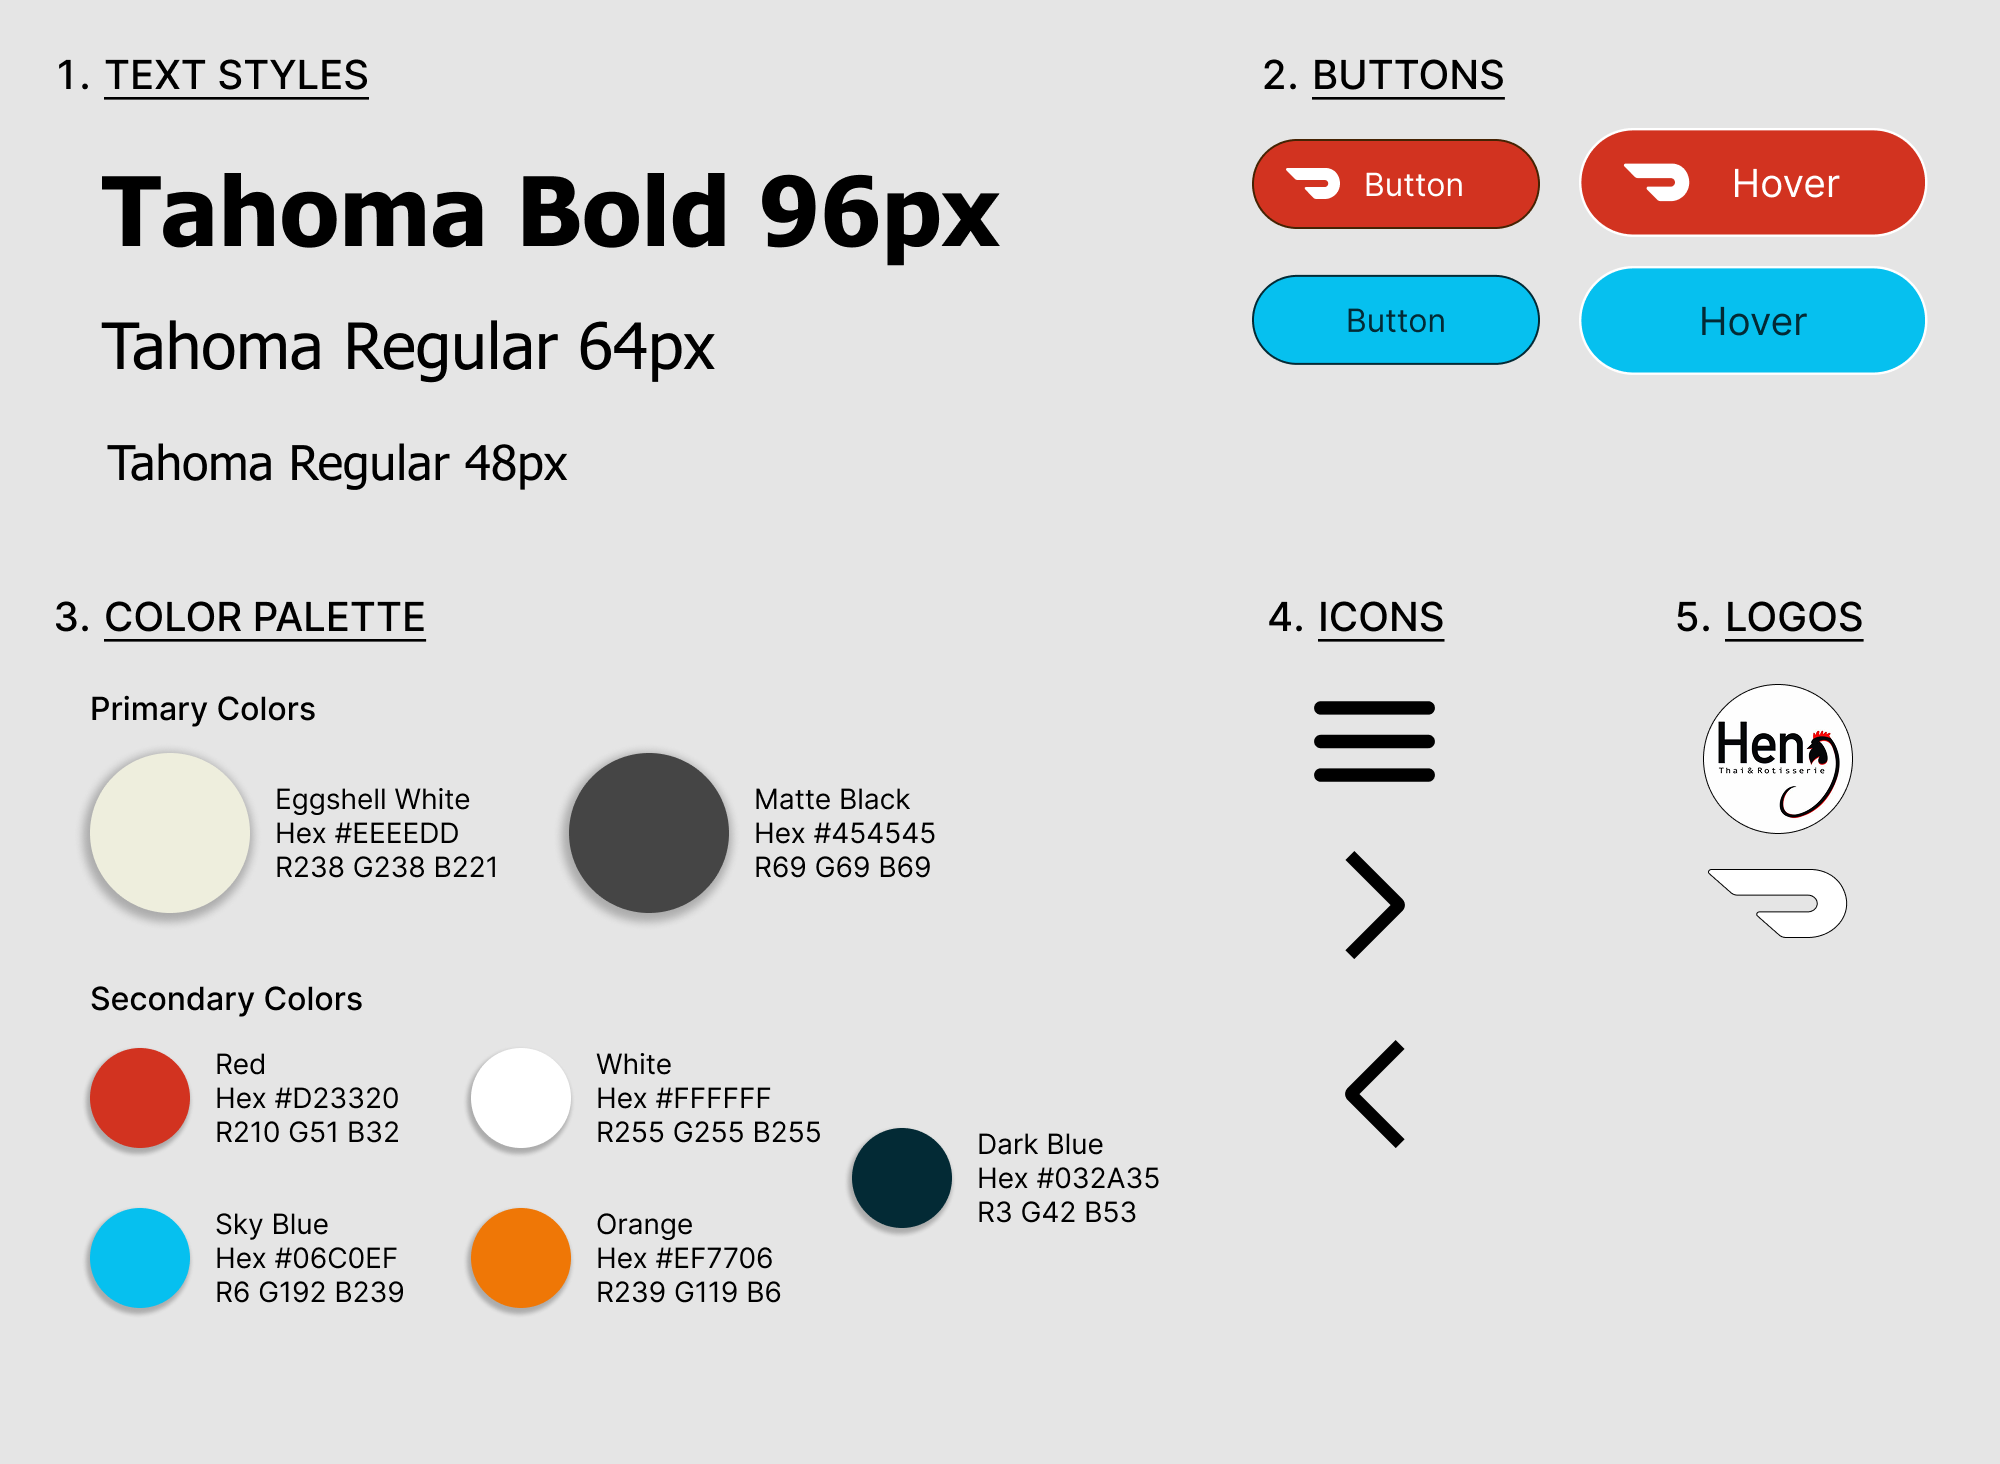
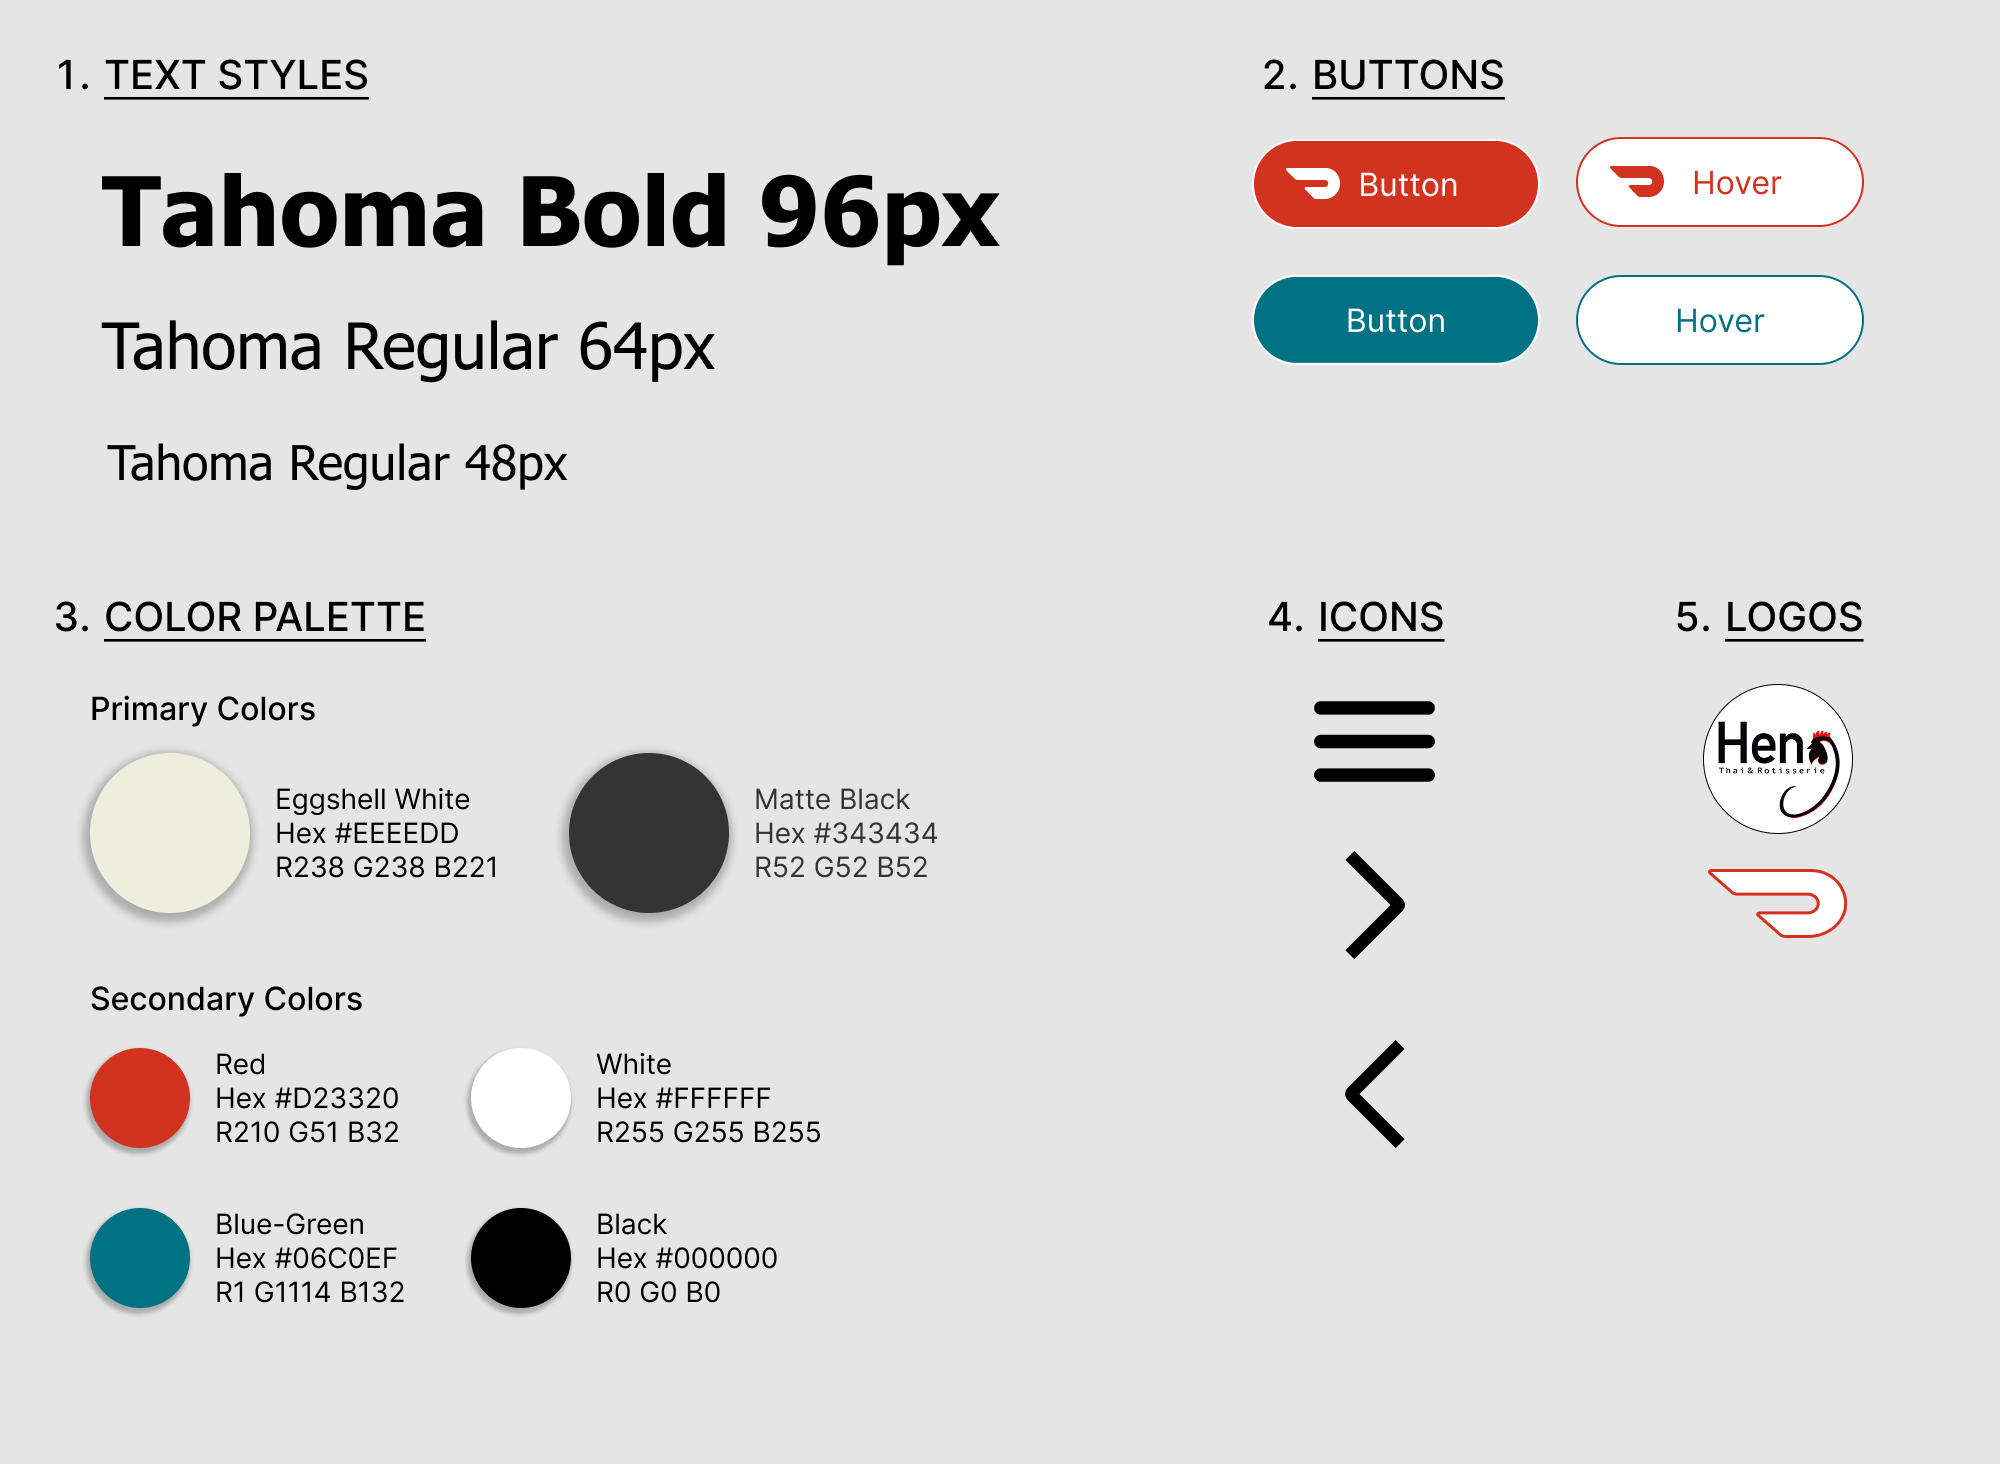
update figmas

diff --git a/visual.html b/visual.html
@@ -57,7 +57,7 @@
             <li>Navigation bar collapses on mobile devices and tablets</li>
             <li>Logo added to the navigation bar to make it more visually appealing</li>
             <li>Carousel added to make the website more visually appealing and to highlight specials</li>
-            <li>Buttons increase size on hover for better visibility</li>
+            <li>Buttons change color on hover for better visibility</li>
             <li>Tabs underlined on hover for better visibility</li>
             <li>Active tab underlined and bold for better visibility</li>
         </ul>
